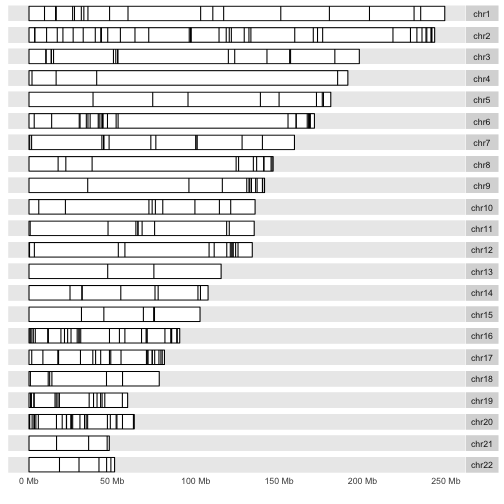
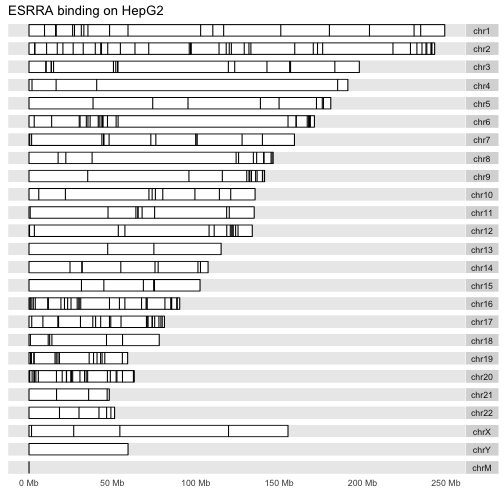
adding bioc2_ggbio to book

diff --git a/pages/bioc2_ggbio.md b/pages/bioc2_ggbio.md
@@ -18,13 +18,15 @@ the handling of extra-chromosomal sequence levels.
 
 
 
+Here is the layout for the liver cell line:
+
 ```r
 library(ERBS)
 data(HepG2)
 library(GenomeInfoDb)  # trim all but autosomal chroms
-seqlevels(HepG2, force=TRUE) = paste0("chr", 1:22)
+HepG2 = keepStandardChromosomes(HepG2)
 data(GM12878)
-seqlevels(GM12878, force=TRUE) = paste0("chr", 1:22)
+GM12878 = keepStandardChromosomes(GM12878)
 library(ggbio)
 autoplot(HepG2, layout="karyogram", main="ESRRA binding on HepG2")
 ```
@@ -38,7 +40,7 @@ autoplot(HepG2, layout="karyogram", main="ESRRA binding on HepG2")
 
 ![plot of chunk lkd](figure/bioc2_ggbio-lkd-1.png)
 
-Notice that the title is not printed, currently a bug.
+And for the B-cell line:
 
 
 ```r
